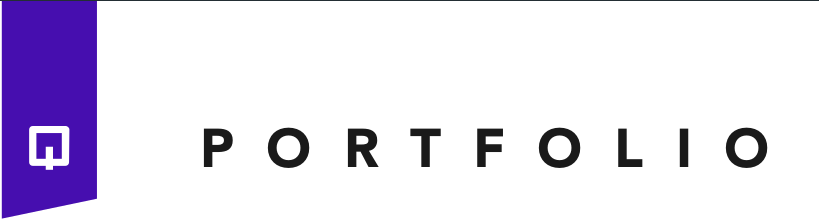
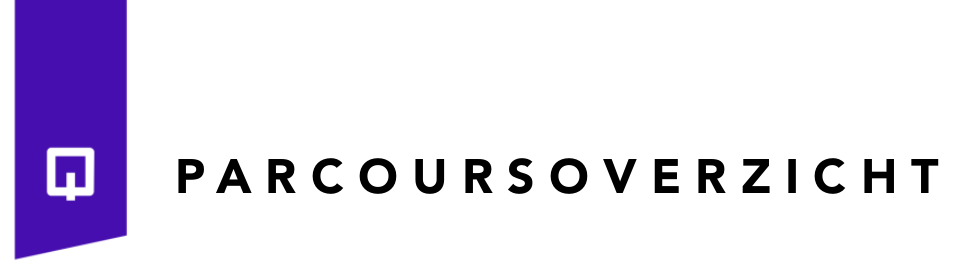
Update portfolio certficate

Changed region(s): [[0.1832, 0.5625, 0.9768, 0.75], [0.0, 0.0, 1.0, 0.9688]]

diff --git a/app/src/pages/Certificate.js b/app/src/pages/Certificate.js
@@ -34,6 +34,10 @@ class Certificate extends Component {
 		});
 	}
 
+	componentDidMount() {
+		this.props.getSubjects();
+	}
+
 	/**
 		* Adds a page to an existing pdf, or generates a base
 		* pdf to work with. This new page has all the images pre-applied.
@@ -62,8 +66,6 @@ class Certificate extends Component {
 
 		// Image has a ratio of 0.7:1
 		pdf.addImage(this.state.images.background, "jpg", 0, 0, 210, 300);
-		// Image has a ratio of 3.66:1
-		pdf.addImage(this.state.images.course_header, "png", 20, 0, 150, 41);
 		// Image has a ratio of 2.54:1
 		pdf.addImage(this.state.images.signature, "png", 45, 190, 120, 47);
 		// Image has a ratio of 3.43:1
@@ -97,6 +99,9 @@ class Certificate extends Component {
 
 		// Fetch the data.
 		let data = this.props.groups[groupId];
+
+		// Image has a ratio of 3.66:1
+		pdf.addImage(this.state.images.course_header, "png", 20, 0, 150, 41);
 
 		// Add the text.
 		pdf.text("Hierbij verklaart Quadraam dat", 105, 60, { align: "center" });
@@ -133,17 +138,19 @@ class Certificate extends Component {
 	 * @param pdf The pdf to add the text to.
 	 * @param name Name of the student for the header.
 	 */
-	portfolioBasePage(pdf, name) {
+	portfolioBasePage(pdf, subjectId) {
 		// Set the name header.
 		pdf.text("Hierbij verklaart Quadraam dat", 80, 50);
 
 		pdf.setFontSize(25);
 		pdf.setFontStyle("bold");
-		pdf.text(name, 107, 60, { align: "center" });
+		pdf.text(this.props.user.displayName, 107, 60, { align: "center" });
 
 		pdf.setFontSize(12);
 		pdf.setFontStyle("normal");
-		pdf.text("de volgende Q-Highschool modules heeft afgerond", 60, 70);
+		pdf.text(`binnen het parcours ${this.props.subjects[subjectId].name} de volgende Q-highschoolmodules heeft afgerond:`, 105, 70, { align: "center", maxWidth: 100 });
+
+		pdf.addImage(this.state.images.portfolio_header, "png", 20, 0, 150, 41);
 
 		this.addPortfolioTableHeader(pdf,100)
 	}
@@ -165,11 +172,9 @@ class Certificate extends Component {
 		*
 		* @param pdf The pdf object.
 		*/
-	addPortfolio(pdf) {
+	addPortfolio(pdf, subjectId) {
 		if (!this.props.groups)
 			return;
-
-		let name = undefined;
 
 		// Construct the portfolio table.
 		let heightOffset = 0;
@@ -181,30 +186,39 @@ class Certificate extends Component {
 
 			let maxLines = page === 1 ? 5 : 9;
 
-			// Add another page if there are too many modules.
-			if (heightOffset % maxLines === 0) {
-				name = val.evaluation.displayName.toString();
-				if (page === 0) {
-					this.portfolioBasePage(pdf, name);
-				} else {
-					this.makeBase(pdf);
-					this.addPortfolioTableHeader(pdf,60)
-				}
-				heightOffset = 0;
-				page += 1;
+			if (val.subjectId + "" !== subjectId + "") {
+				return;
 			}
-
-			let topHeight = page === 1 ? 113 : 75;
 
 			if (!val.hasOwnProperty("evaluation"))
 				return;
-
 
 			// Get the module name.
 			if (val.hasOwnProperty("courseName"))
 				data.name = val.courseName.toString();
 			else
 				return;
+
+			// Get the grade data.
+			if (val.evaluation.hasOwnProperty("assesment") && val.evaluation.assesment.length > 0)
+				data.grade = translateAssessment(val.evaluation)
+			else
+				return;
+
+			// Add another page if there are too many modules.
+			if (heightOffset % maxLines === 0) {
+				if (page === 0) {
+					this.portfolioBasePage(pdf, subjectId);
+				} else {
+					this.makeBase(pdf);
+					this.addPortfolioTableHeader(pdf,60);
+					pdf.addImage(this.state.images.portfolio_header, "png", 20, 0, 150, 41);
+				}
+				heightOffset = 0;
+				page += 1;
+			}
+
+			let topHeight = page === 1 ? 113 : 75;
 
 			// Get the study credits.
 			if (val.hasOwnProperty("studyTime"))
@@ -217,12 +231,6 @@ class Certificate extends Component {
 				data.date = val.evaluation.date.toString();
 			else
 				data.date = val.hasOwnProperty("schoolYear") ? val.schoolYear : "Niet bekend.";
-
-			// Get the grade data.
-			if (val.evaluation.hasOwnProperty("assesment") && val.evaluation.assesment.length > 0)
-				data.grade = translateAssessment(val.evaluation)
-			else
-				return;
 
 			// Construct a pdf row.
 			let height = heightOffset * 13 + topHeight;
@@ -280,12 +288,12 @@ class Certificate extends Component {
 		let pdf = this.makeBase();
 
 		// Add a single module if requested.
-		let isModuleCertificate = this.props.match.params.hasOwnProperty("groupId") && this.props.match.params.groupId !== null
+		let isModuleCertificate = this.props.match.params.hasOwnProperty("groupId") && this.props.match.params.groupId !== null;
 		if (isModuleCertificate) {
 			this.addModule(this.props.match.params.groupId, pdf);
 		} else {
 			// Add the portfolio page(s).
-			this.addPortfolio(pdf);
+			this.addPortfolio(pdf,this.props.match.params.subjectId);
 
 			// Make sure the page count is always even in case we're printing a portfolio.
 			this.fixPageCount(pdf);
@@ -341,6 +349,7 @@ function mapStateToProps(state) {
 		currentPeriod: state.currentPeriod,
 		userId: state.userId,
 		user: state.users[state.userId],
+		subjects: state.subjects,
 	};
 }
 

diff --git a/app/src/App.js b/app/src/App.js
@@ -72,7 +72,7 @@ class App extends Component {
                     <Route path="/taxi/" component={Taxi}/>
                     <Route path="/beheer/" component={ControlPanel}/>
                     <Route path="/certificaat/gebruiker/:userId/groep/:groupId" component={Certificate}/>
-                    <Route path="/certificaat/gebruiker/:userId" component={Certificate}/>
+                    <Route path="/certificaat/gebruiker/:userId/parcours/:subjectId" component={Certificate}/>
                     <Redirect push to={startPage}/>
                 </Switch>
             </div>
